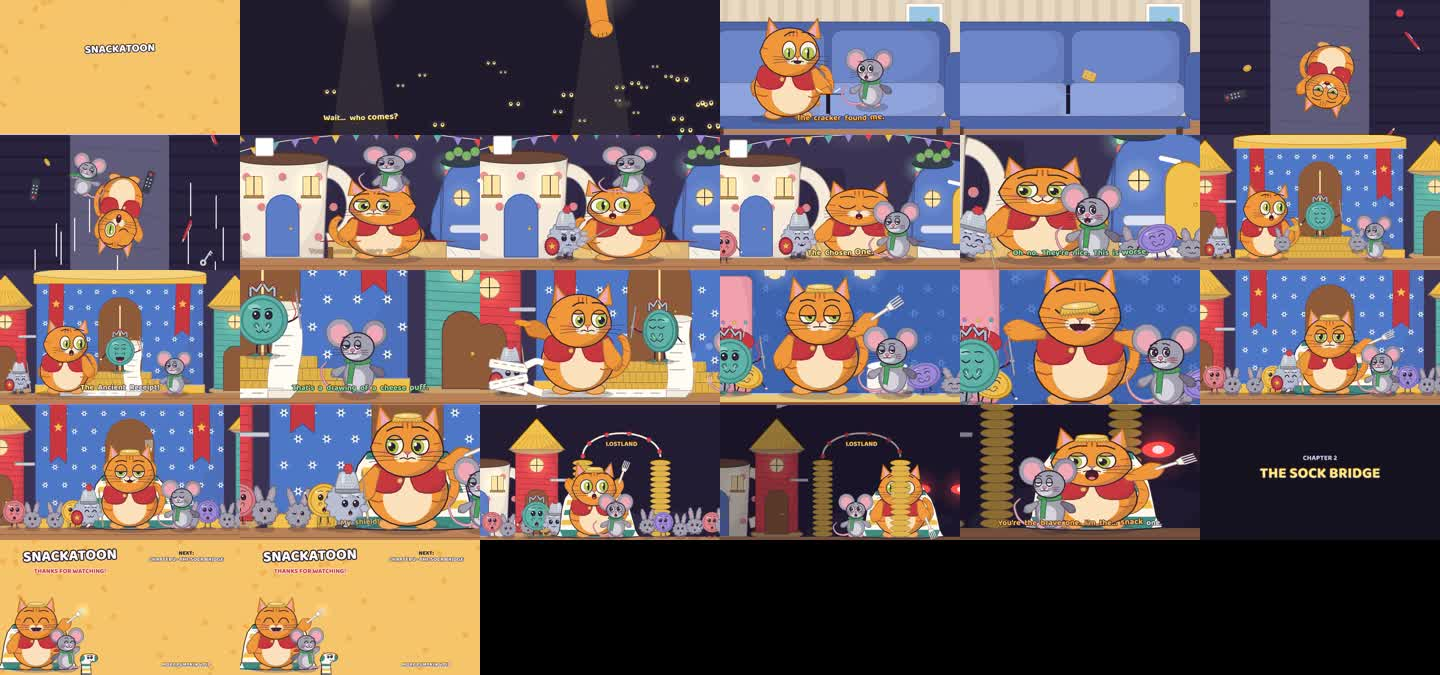
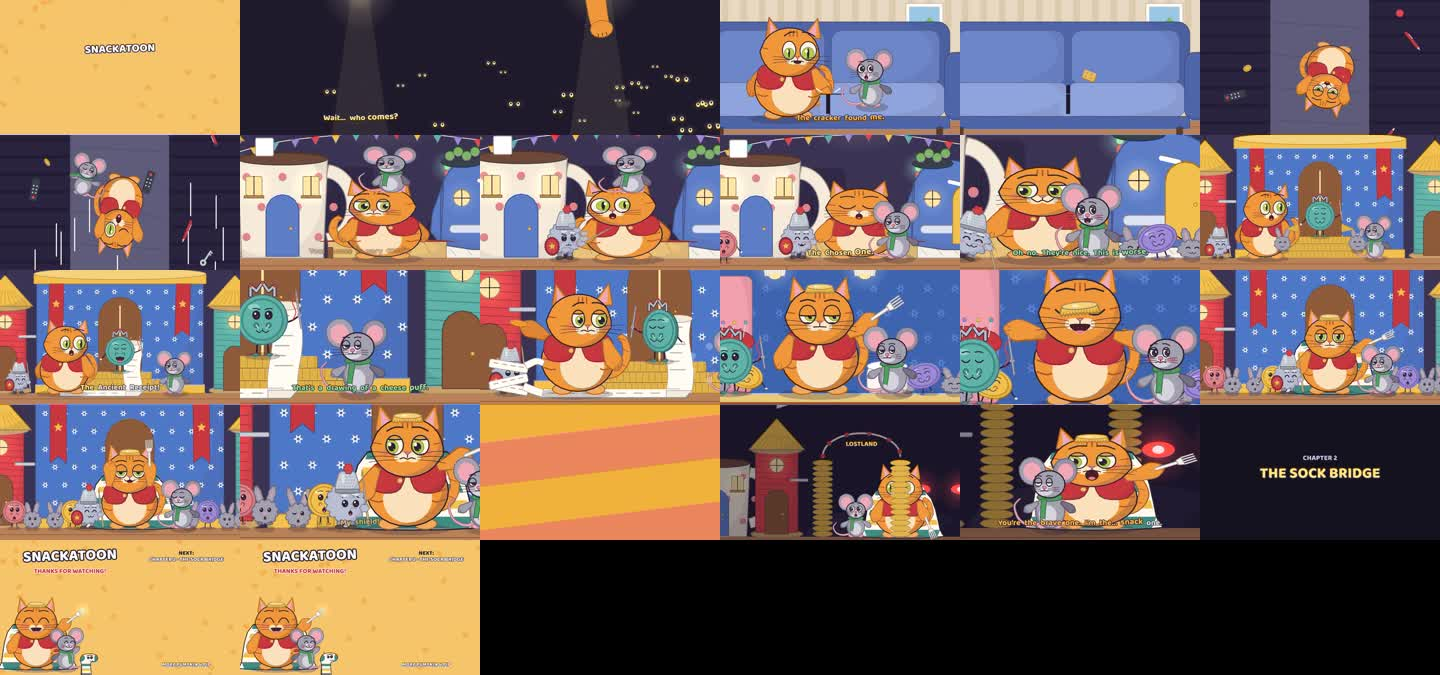
rig: raised arms draw in front of the head, the 3/4 far arm peeks out; long/07 ch1: victory parade + brush wipe from the palace to the town gate
Claude-Session: https://claude.ai/code/session_01WxLgLCMvMcVaDmvrqqXGT7

diff --git a/long/07-couch-kingdom/src/scenes/shots.js b/long/07-couch-kingdom/src/scenes/shots.js
@@ -324,6 +324,7 @@
     puffCloud(PKX, TFY - 60, 260, t - 153.1);
     pip(PIPX + 120, TFY, U, { ...faces(t, [[130, 'deadpan', { lookX: -1 }], [132.9, 'surprised', { eyes: 'wide' }], [133.4, 'deadpan', { lid: .7 }], [139, 'deadpan', { lookX: -1, browUp: .5 }], [153.8, 'deadpan', { lookX: 0, lookY: 0 }]]), view: t > 153.8 ? 'front' : 'q', flip: t < 153.8, aL: -.6, aR: -.6, boilKey: 'pip' });
     camEnd();
+    if (t > 154.7) brushWipe((t - 154.7) / .6);   // wipe to the town gate
   }
 
   // 1-11 · 155–180 · BOOM... BOOM. The lamps sway. A rumbling, sucking roar. Two huge red eyes far off in the dark. "The Dragon
@@ -331,14 +332,19 @@
   // snack one." The red glare sweeps over them... and turns away. Title card: CHAPTER 2 · THE SOCK BRIDGE.
   function s11(t) {
     if (t > 176.4) { titleCard(t, 'CHAPTER 2', 'THE SOCK BRIDGE', ease(seg(t, 176.6, 177.2))); return; }
-    const thumps = [155.4, 156.8, 158.0], sh = thumps.reduce((a, b) => { const v = shake(t, b, 16, .4); return [a[0] + v[0], a[1] + v[1]]; }, [0, 0]);
+    const thumps = [157.0, 157.9, 158.6], sh = thumps.reduce((a, b) => { const v = shake(t, b, 16, .4); return [a[0] + v[0], a[1] + v[1]]; }, [0, 0]);
     const close = t > 165.4;
-    if (close) camT(1230, 1.9, sh); else camT(1000, 1.15, sh, 60);
+    // 155-156.8: the victory parade marches everyone from the palace to the town gate (camera tracks with them), cheering
+    const walk = 1 - ease(seg(t, 155, 156.8)), off = -900 * walk;
+    if (close) camT(1230, 1.9, sh); else camT(1000 + off, 1.15, sh, 60);
+    if (walk > 0) { push(); translate(off, 0); }
     const sweep = t > 171.2 && t < 174.2 ? Math.sin(seg(t, 171.2, 174.2) * Math.PI) : 0;
     townGate(t, { dark: .55 * seg(t, 158, 160) * (1 - sweep * .6) });
     dragonEyes(1700 - (t > 174.5 ? (t - 174.5) * 600 : 0), TFY - 330, seg(t, 158.6, 159.4) * (t > 175 ? 1 - seg(t, 175, 176) : 1), t);
     if (sweep > 0) paint([[1700, TFY - 330], [600 + sweep * 300, 1100], [1300 + sweep * 300, 1100]], { wash: '#FF4A4A', washOp: 70 * sweep, ink: null });
-    crowd(t, { flee: 160.8 });
+    const marching = walk > 0, bob = i => marching ? -Math.abs(Math.sin(t * 10 + i)) * 12 : 0;
+    if (marching) speedLines(800, TFY - 300, 1, t, 4, 160, 300);
+    crowd(t, { flee: 160.8, cheer: marching });
     queenButton(560 - 900 * easeIn(seg(t, 161, 161.8)), TFY, U, { ...faces(t, [[155, 'surprised'], [160.3, 'panic', { mouth: 'O' }]]), who: 'queen', boilKey: 'queen' });
     sirLint(700 - 900 * easeIn(seg(t, 161.3, 162.1)), TFY, U * 1.1, { ...face('panic'), view: 'q', flip: true, noShield: true, boilKey: 'lint' });
     // the dive: Pumpkin hides behind Pip (Pip in front, tiny; Pumpkin crouched behind, peeking over)
@@ -349,10 +355,12 @@
       sockCape(X, TFY, U, { wind: .3 }); pumpkin(X, TFY, U, { ...face(one ? 'panic' : 'sheepish', { lookX: -1 }), crown: true, aL: one ? -1.2 : 1.3, aR: one ? -1.2 : 1.3, armR: excalifork(0), sq: .05 + Math.sin(t * 40) * .02, boilKey: 'pk' });
       if (one) for (let k = 0; k < 14; k++) paint(ellPts(1420, TFY - 20 - k * 38, 70, 20, 18), { wash: CK.coin, ink: PAL.ink, sw: 1.3 });
       else dustBunny(X + 20, HEAD + 70, U * 1.1, { ...face('surprised'), seed: 3, noShadow: true, boilKey: 'hb' });
-    } else if (!hid) { const p = arcPt(t < 162.4 ? [PKX, TFY] : [1250, TFY], [px + 170, TFY], 160, ease(dive)); sockCape(p[0], p[1], U, { wind: .6 }); pumpkin(p[0], p[1], U, { ...faces(t, [[155, 'surprised', { lookX: 1 }], [158.6, 'panic', { lookX: 1 }]]), crown: true, aR: 1.2, armR: excalifork(0), aL: 1.2, sq: dive > 0 ? -.2 : 0, noShadow: dive > 0, boilKey: 'pk' }); }
+    } else if (!hid) { const p = arcPt(t < 162.4 ? [PKX, TFY] : [1250, TFY], [px + 170, TFY], 160, ease(dive)); sockCape(p[0], p[1], U, { wind: .6 }); pumpkin(p[0], p[1] + bob(1), U, { ...faces(t, [[155, 'happy', { mouth: 'grin' }], [157, 'surprised', { lookX: 1 }], [158.6, 'panic', { lookX: 1 }]]), crown: true, aR: 1.2, armR: excalifork(0), aL: 1.2, sq: dive > 0 ? -.2 : 0, noShadow: dive > 0, boilKey: 'pk' }); }
     else { sockCape(px + 170, TFY, U, { wind: .2 }); pumpkin(px + 170, TFY, U, { ...faces(t, [[165.5, 'panic', { lookX: 1 }], [167.6, 'sheepish', { lookX: -1, lookY: .6 }], [174.6, 'surprised', { lookX: 1 }], [176.4, 'sheepish', { lookX: 1 }]]), crown: true, sq: .2 + Math.sin(t * 40) * .02, aL: .4, aR: .4, armR: excalifork(0), who: 'pumpkin', boilKey: 'pk' }); }
-    pip(px, TFY, U, { ...faces(t, [[155, 'surprised', { lookX: 1 }], [163.4, 'deadpan', { lookX: 1, lookY: -.5 }], [164.6, 'annoyed', { lookY: -1, lookX: 1 }], [169.4, 'deadpan', { lookY: -1 }]]), view: t > 164 ? 'q' : 'front', flip: true, aL: -.6, aR: -.6, who: 'pip', boilKey: 'pip' });
+    pip(px, TFY + bob(3), U, { ...faces(t, [[155, 'happy'], [157, 'surprised', { lookX: 1 }], [163.4, 'deadpan', { lookX: 1, lookY: -.5 }], [164.6, 'annoyed', { lookY: -1, lookX: 1 }], [169.4, 'deadpan', { lookY: -1 }]]), view: t > 164 ? 'q' : 'front', flip: true, aL: -.6, aR: -.6, who: 'pip', boilKey: 'pip' });
+    if (walk > 0) pop();
     camEnd();
+    if (t < 155.3) brushWipe(.5 + (t - 155) / .6);
   }
 
   // every shot is written in chapter time (0 = the cold open); the 5-second opening titles come first, so shift by INTRO

diff --git a/engine/cast/pumpkin_pip.js b/engine/cast/pumpkin_pip.js
@@ -245,7 +245,7 @@ function pumpkin(x, y, u, o = {}) {
   // far arm (3/4 view hides most of it behind the body)
   rs('armFar');
   const shY = -6.4 * u, shX = 3.15 * u * fat;
-  if (q) castArm(-shX + q * .9 * u, shY, o.aL ?? -1.14, -1, 3.0 * u, 1.4 * u, mixCol(col, dk, .35), sw, o.armL, u);
+  if (q) castArm(-shX + q * .35 * u, shY, o.aL ?? -1.14, -1, 3.0 * u, 1.4 * u, mixCol(col, dk, .35), sw, o.armL, u);   // the far arm: rooted far enough out that its paw shows past the body
   // body
   rs('body');
   const bcx = q * .4 * u, bcy = -3.9 * u, brx = 4.3 * u * fat, bry = 3.7 * u * (1 - belly * .02);
@@ -268,9 +268,13 @@ function pumpkin(x, y, u, o = {}) {
     if (s < 0) for (const by of [-6.3, -5.0]) paint(ellPts((s * (gap * .55 + .5) + off) * u, by * u, .28 * u, .28 * u, 10), { wash: C.button, ink: PAL.ink, sw: sw * .5 });
   }
   // near arm(s)
+  // near arms. A raised arm (angle > .8) would vanish behind the big head, so it is drawn after the head instead.
   rs('arms');
-  if (!q) castArm(-shX, shY, o.aL ?? -1.14, -1, 3.0 * u, 1.4 * u, col, sw, o.armL, u);
-  castArm(shX + q * .5 * u, shY, o.aR ?? -1.14, 1, 3.0 * u, 1.4 * u, col, sw, o.armR, u);
+  const upL = !q && (o.aL ?? -1.14) > .8, upR = (o.aR ?? -1.14) > .8;
+  const armL = () => castArm(-shX, shY, o.aL ?? -1.14, -1, 3.0 * u, 1.4 * u, col, sw, o.armL, u);
+  const armR = () => castArm(shX + q * .5 * u, shY, o.aR ?? -1.14, 1, 3.0 * u, 1.4 * u, col, sw, o.armR, u);
+  if (!q && !upL) armL();
+  if (!upR) armR();
   // head
   rs('head');
   push(); translate(q * .55 * u, -8.5 * u + puff * -.4 * u);
@@ -297,6 +301,7 @@ function pumpkin(x, y, u, o = {}) {
   rs('face');
   pumpkinFace(u, o, sw, fx, q, { col, lt, C, talk, wet, cu, hx, hy });
   pop();
+  rs('armsUp'); if (upL) armL(); if (upR) armR();
   rs('draw'); if (o.draw) o.draw(u, sw);
   pop();
   rs('emote'); if (o.emote && typeof emote === 'function') emote(o.emote, x + (o.flip ? -1 : 1) * 3.8 * u, y + dy - 12.6 * u, u * .9, o.emoteK ?? 1, o.emoteAge ?? T);
